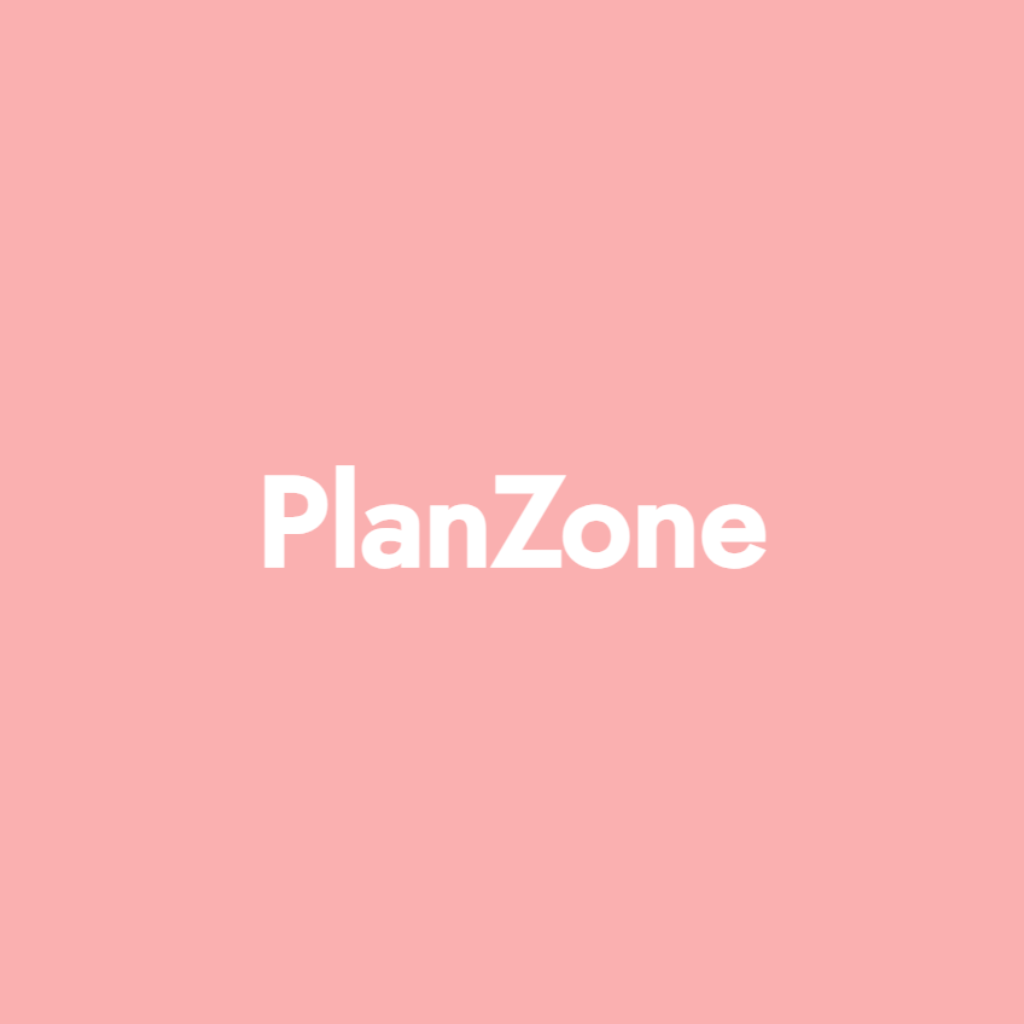
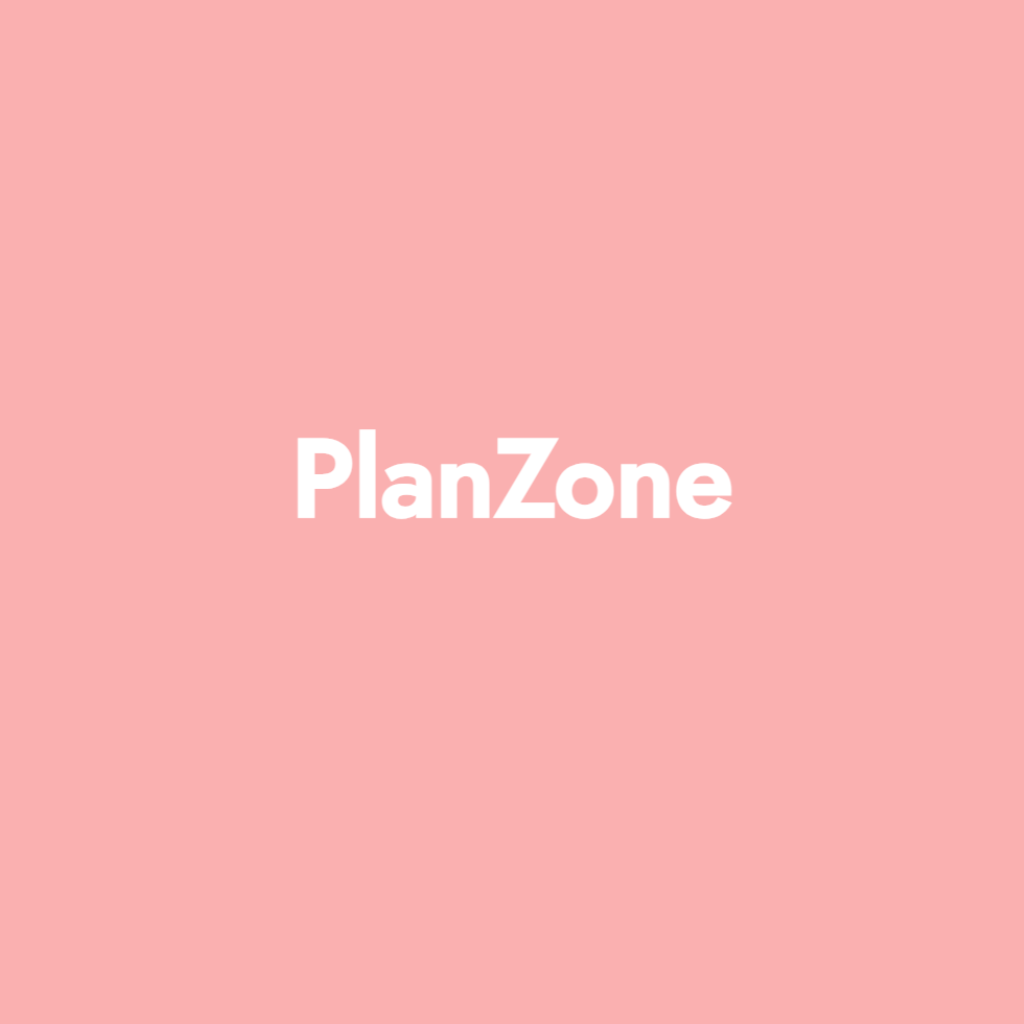
Update splash screen image and cleanup old assets

Changed region(s): [[0.25, 0.4062, 0.75, 0.5625]]

diff --git a/App.tsx b/App.tsx
@@ -1,5 +1,5 @@
 import React, { useEffect, useState } from 'react';
-import { View, Image, StyleSheet, Alert, Dimensions } from 'react-native';
+import { Alert } from 'react-native';
 import { StatusBar } from 'expo-status-bar';
 import * as SplashScreen from 'expo-splash-screen';
 import * as WebBrowser from 'expo-web-browser';
@@ -19,10 +19,6 @@ import {
 
 import AuthScreen from './authscreen';
 
-// ✅ Ajout Dimensions pour récupérer width
-const { width, height } = Dimensions.get('window');
-
-SplashScreen.preventAutoHideAsync();
 WebBrowser.maybeCompleteAuthSession();
 
 const firebaseConfig = {
@@ -38,31 +34,38 @@ const app = initializeApp(firebaseConfig);
 const auth = getAuth(app);
 
 export default function App() {
-  const [isReady, setIsReady] = useState(false);
-  const [showSplash, setShowSplash] = useState(true);
+  const [appIsReady, setAppIsReady] = useState(false);
   const [user, setUser] = useState<any>(null);
   const [email, setEmail] = useState('');
   const [password, setPassword] = useState('');
   const [loading, setLoading] = useState(false);
-
-  const isMorning = new Date().getHours() < 18;
 
   const [request, response, promptAsync] = Google.useAuthRequest({
     clientId: '152003794034-d3q29jrvqmjtp4jm2gfrpmg18nn3cjg6.apps.googleusercontent.com',
     iosClientId: '152003794034-poa7h2sfeee5367u5usbgnrv10mmaaku.apps.googleusercontent.com',
     androidClientId: '152003794034-nnd661rli7bjp2hbkk2c6qo3iik7mr2q.apps.googleusercontent.com',
     scopes: ['profile', 'email'],
-    redirectUri: AuthSession.makeRedirectUri({ native: 'planzone://redirect' })
+    redirectUri: AuthSession.makeRedirectUri({ native: 'planzone://redirect' }),
   });
 
-  // Splash pendant 7 secondes
   useEffect(() => {
-    const timer = setTimeout(async () => {
-      setShowSplash(false);
-      setIsReady(true);
-      await SplashScreen.hideAsync();
-    }, 7000);
-    return () => clearTimeout(timer);
+    // Empêche le splash natif de disparaître automatiquement
+    SplashScreen.preventAutoHideAsync();
+
+    // Simule l'initialisation de l'app avant de cacher le splash
+    const prepare = async () => {
+      try {
+        // Ici tu peux charger des données, polices, etc.
+        await new Promise((resolve) => setTimeout(resolve, 7000)); // 7 secondes de splash
+      } catch (e) {
+        console.warn(e);
+      } finally {
+        setAppIsReady(true);
+        await SplashScreen.hideAsync();
+      }
+    };
+
+    prepare();
   }, []);
 
   useEffect(() => {
@@ -128,20 +131,10 @@ export default function App() {
     }
   };
 
-  // ✅ Splash personnalisé intégré
-  if (showSplash) {
-    return (
-      <View style={[styles.splashContainer, { backgroundColor: isMorning ? '#FFFFFF' : '#FAB0B0' }]}>
-        <Image
-          source={isMorning ? require('./assets/images/omar.png') : require('./assets/images/bosar.png')}
-          style={styles.splashImage}
-          resizeMode="contain"
-        />
-      </View>
-    );
+  if (!appIsReady) {
+    return null; // Reste sur le splash natif
   }
 
-  // ✅ App principale
   return (
     <>
       <StatusBar style="dark" />
@@ -161,17 +154,3 @@ export default function App() {
     </>
   );
 }
-
-// 🎨 Styles du splash
-const styles = StyleSheet.create({
-  splashContainer: {
-    flex: 1,
-    justifyContent: 'center',
-    alignItems: 'center',
-  },
-  splashImage: {
-    width: width * 0.6,      // ✅ 50% de la largeur de l’écran
-    height: width * 0.6,     // ✅ carré, donc même taille
-    resizeMode: 'contain',   // ✅ pour que l'image garde ses proportions
-  },
-});

diff --git a/authscreen.tsx b/authscreen.tsx
@@ -43,7 +43,6 @@ const AuthScreen: React.FC<AuthScreenProps> = ({
   const [termsAccepted, setTermsAccepted] = React.useState(false);
   const [showPassword, setShowPassword] = React.useState(false);
 
-  // ✅ Chargement de la police
   const [fontsLoaded] = useFonts({
     'Jost-Medium': require('./assets/fonts/Jost-Medium.ttf'),
   });
@@ -98,9 +97,7 @@ const AuthScreen: React.FC<AuthScreenProps> = ({
           placeholder="Enter your password"
           style={[
             styles.passwordInput,
-            !showPassword
-              ? { fontFamily: undefined } // ✅ font système pour bien afficher les points noirs
-              : { fontFamily: 'Jost-Medium' },
+            showPassword && { fontFamily: 'Jost-Medium' }, // ✅ affiche police SEULEMENT quand visible
           ]}
           secureTextEntry={!showPassword}
           value={password}
@@ -182,7 +179,7 @@ const styles = StyleSheet.create({
     justifyContent: 'center',
   },
   logo: {
-    width: 120, // ✅ plus grand que 60
+    width: 120,
     height: 120,
     alignSelf: 'center',
     marginBottom: 15,
